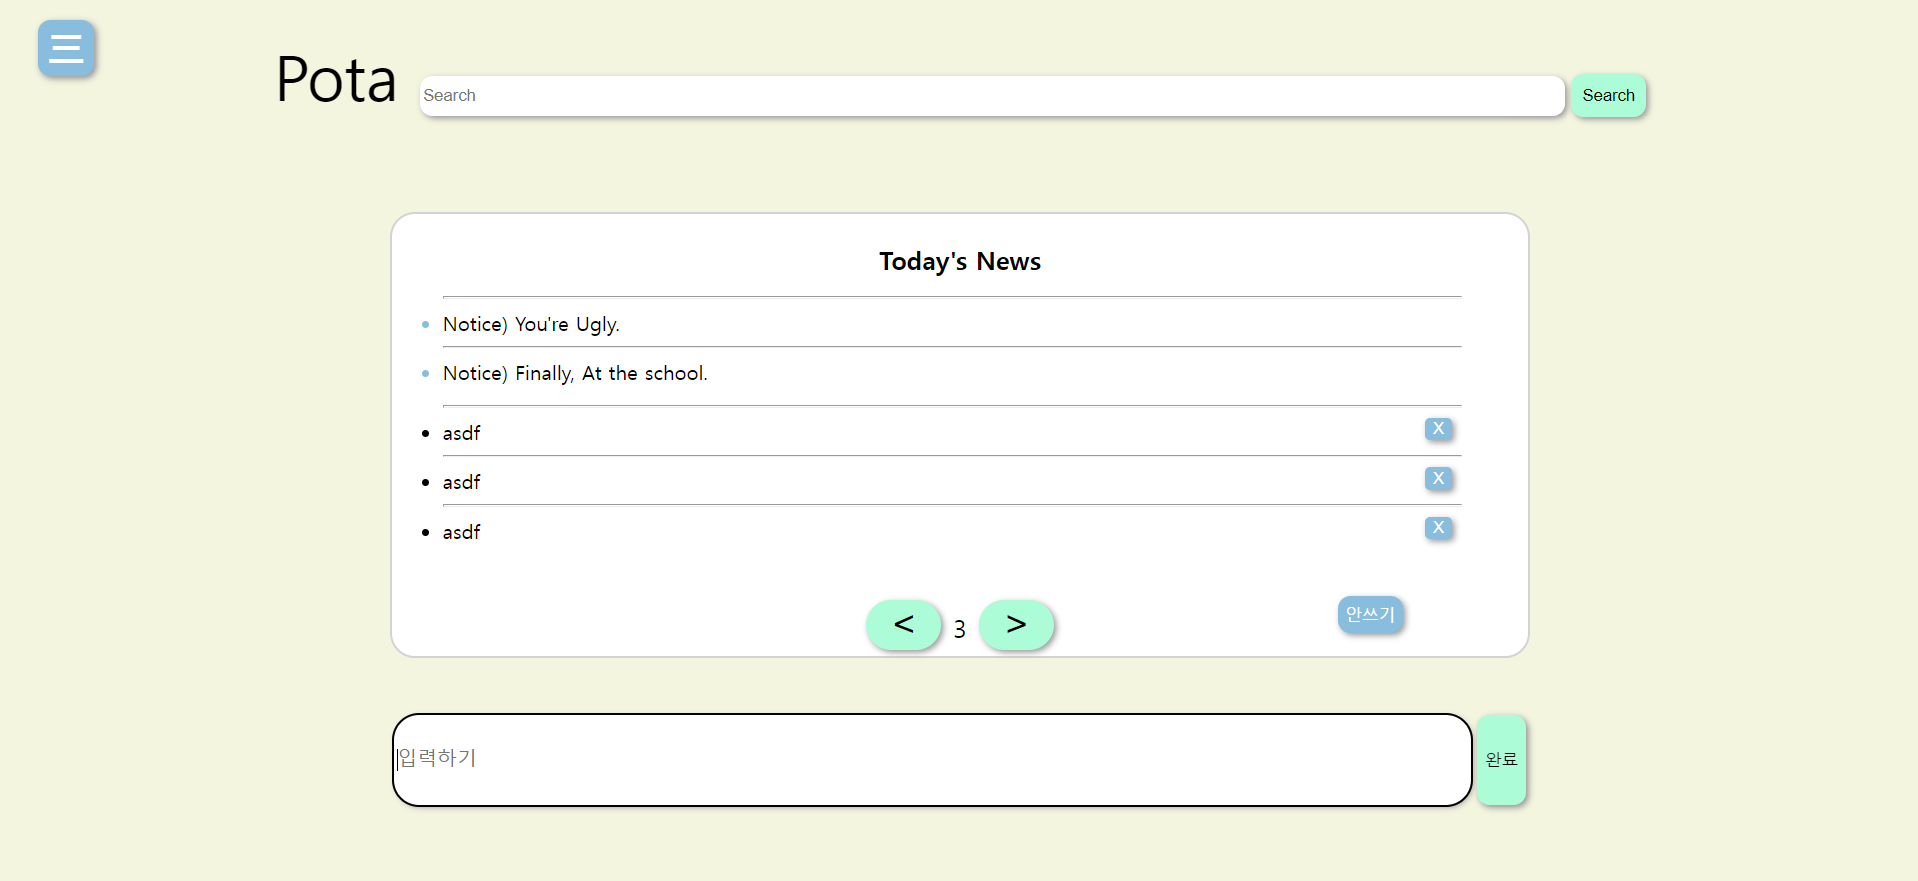
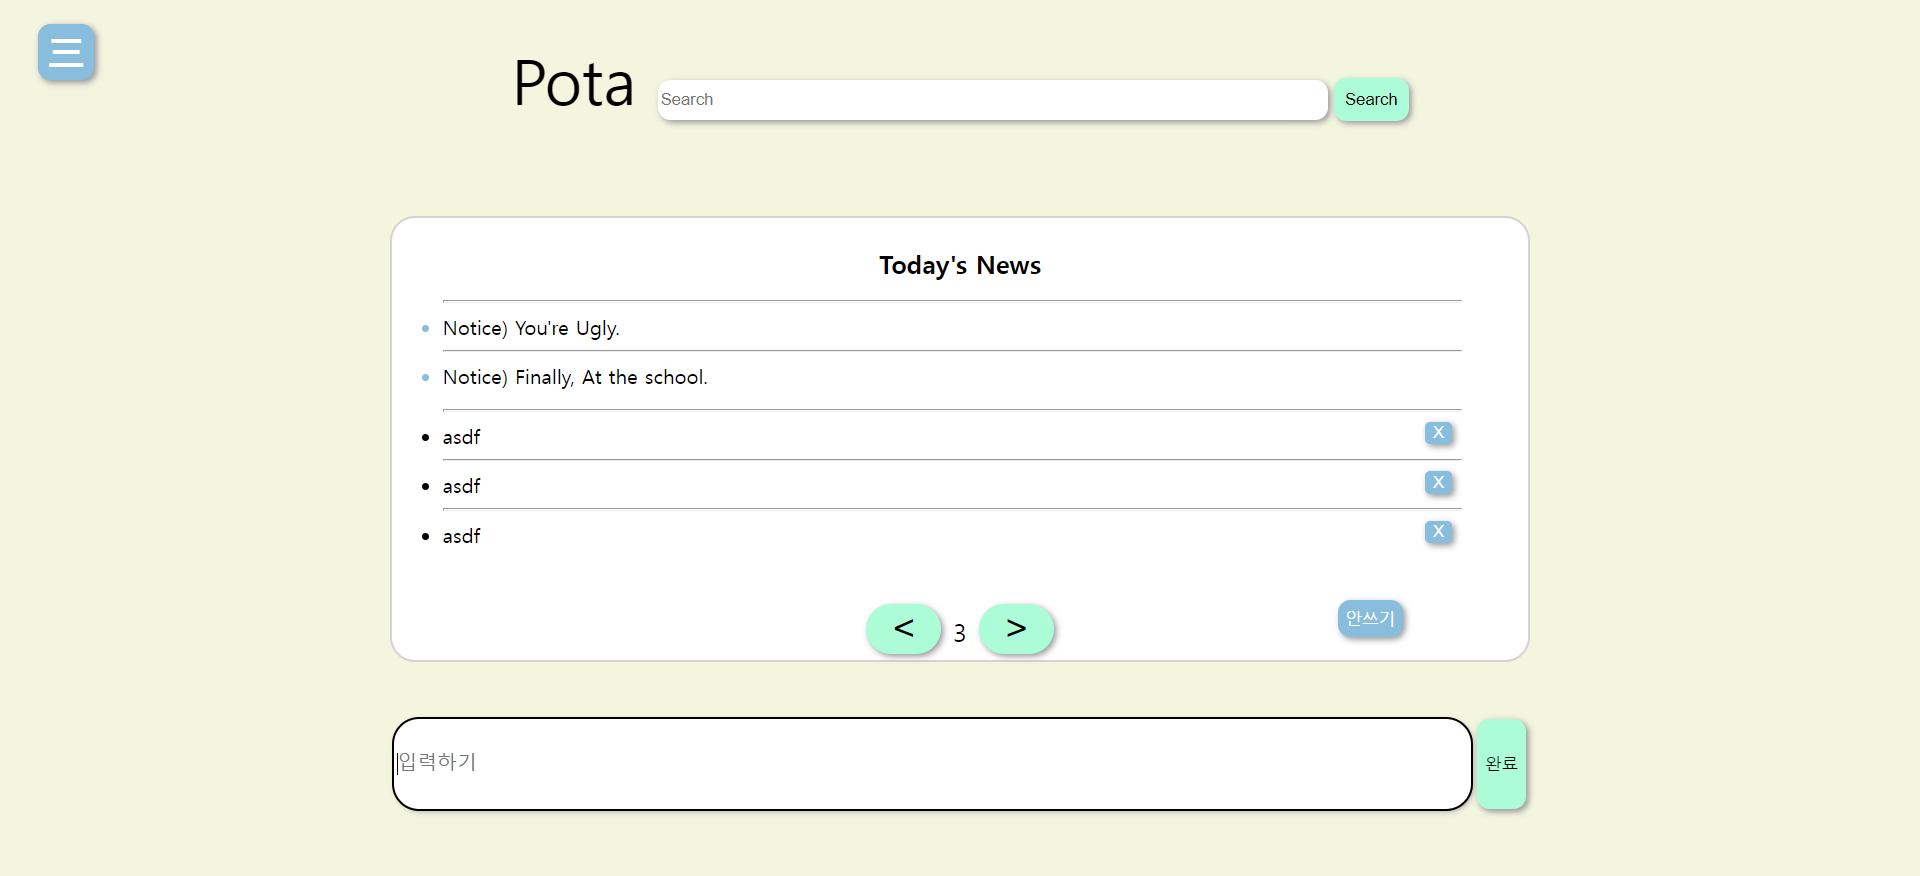
이미지 변경

diff --git a/메인보조.css b/메인보조.css
@@ -1,13 +1,15 @@
 #searchLine{
-    width: 60%; 
+    width: 35%; 
     height: 30px; 
     border: none;
     border-radius: 10px;
     box-shadow: 2px 2px 5px #999;
+    transition: all 0.2s ease;
     position: flex;
 }
 
 #searchLine:focus{
+    width: 60%; 
     outline: 2px solid black;
 }
 
